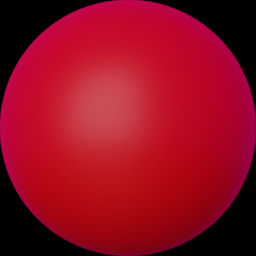
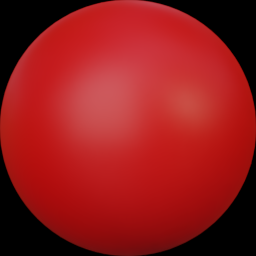
Use full-res matcaps

diff --git a/html/polyscope.js b/html/polyscope.js
@@ -106,9 +106,6 @@ dat.GUI.prototype.removeFolder = function (name) {
   this.onResize();
 };
 
-// https://github.com/mrdoob/three.js/issues/6117#issuecomment-75461347
-// Apparently passing in face normals is hard in WebGL, so people use this dFdx trick to compute face
-// normals in the shader
 function createMatCapMaterial(tex_r, tex_g, tex_b, tex_k) {
   let vertexShader = `
         attribute vec3 barycoord;
@@ -197,6 +194,16 @@ function createMatCapMaterial(tex_r, tex_g, tex_b, tex_k) {
   return Material;
 }
 
+class CurveNetworkStructure {
+  constructor(mesh, geo, name, polyscopeEnvironment) {
+    this.mesh = mesh;
+    this.geo = geo;
+    this.name = name;
+    this.ps = polyscopeEnvironment;
+    this.quantities = {};
+  }
+}
+
 class MeshStructure {
   constructor(mesh, geo, nV, faces, name, polyscopeEnvironment) {
     this.mesh = mesh;
@@ -205,6 +212,7 @@ class MeshStructure {
     this.faces = faces;
     this.name = name;
     this.ps = polyscopeEnvironment;
+    this.quantities = {};
   }
 
   computeSmoothNormals() {
@@ -373,10 +381,10 @@ class Polyscope {
       b: undefined,
       k: undefined,
     };
-    this.matcapTextures.r = new THREE.TextureLoader().load("img/clay_r.jpg");
-    this.matcapTextures.g = new THREE.TextureLoader().load("img/clay_g.jpg");
-    this.matcapTextures.b = new THREE.TextureLoader().load("img/clay_b.jpg");
-    this.matcapTextures.k = new THREE.TextureLoader().load("img/clay_k.jpg");
+    this.matcapTextures.r = new THREE.TextureLoader().load("img/clay_r.png");
+    this.matcapTextures.g = new THREE.TextureLoader().load("img/clay_g.png");
+    this.matcapTextures.b = new THREE.TextureLoader().load("img/clay_b.png");
+    this.matcapTextures.k = new THREE.TextureLoader().load("img/clay_k.png");
   }
 
   initRenderer(container) {
@@ -611,6 +619,39 @@ class Polyscope {
     let c = new THREE.Vector3(color[0] / 255, color[1] / 255, color[2] / 255);
     meshStructure.mesh.material.uniforms.edgeColor.value = c;
   }
+
+  constructCurveNetwork(vertices, segments, maxLen) {
+    // create geometry object
+    let threeGeometry = new THREE.BufferGeometry();
+
+    // fill position and color buffers
+    let positions = new Float32Array(vertices.length * 3);
+    for (let iV = 0; iV < vertices.length; iV++) {
+      for (let iD = 0; iD < 3; ++iD) {
+        positions[3 * iV + iD] = vertices[iV][iD];
+      }
+    }
+
+    let indices = new Uint16Array(2 * segments.length);
+    for (let iS = 0; iS < segments.length; iS++) {
+      indices[2 * iS + 0] = segments[iS][0];
+      indices[2 * iS + 1] = segments[iS][1];
+    }
+
+    threeGeometry.setAttribute(
+      "position",
+      new THREE.BufferAttribute(positions, 3)
+    );
+    threeGeometry.setIndex(new THREE.BufferAttribute(indices, 1));
+
+    // create line material
+    let lineMaterial = new THREE.LineBasicMaterial({ color: 0xff00ff });
+
+    // create mesh
+    let threeMesh = new THREE.Mesh(threeGeometry, matcapMaterial);
+    return [threeMesh, threeGeometry];
+  }
+
   initControls() {
     this.controls = new THREE.TrackballControls(
       this.camera,
